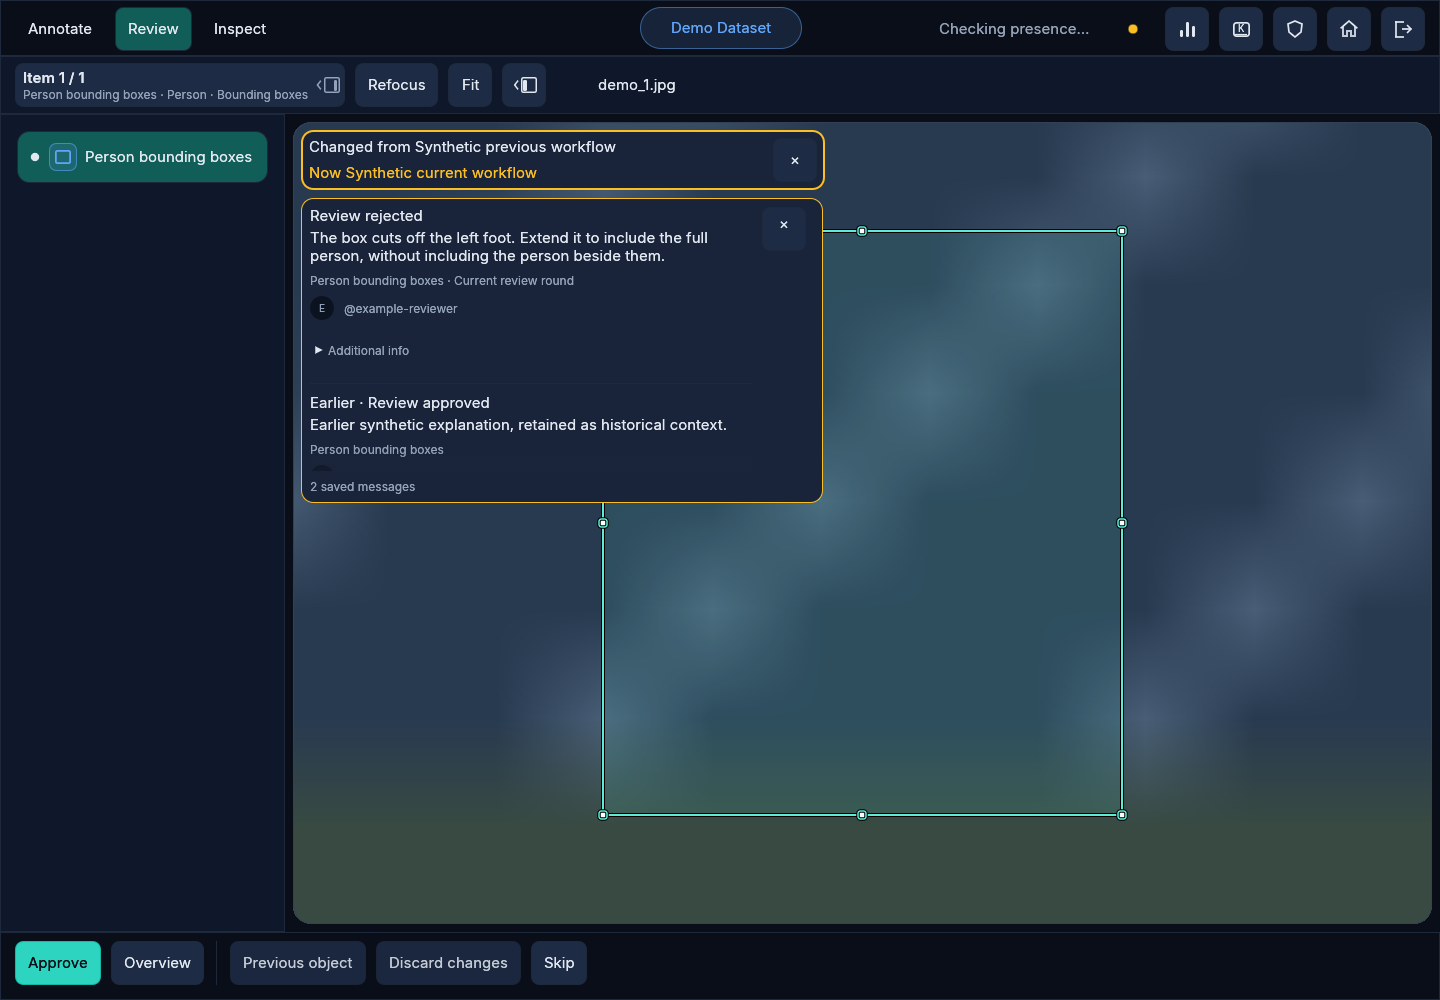
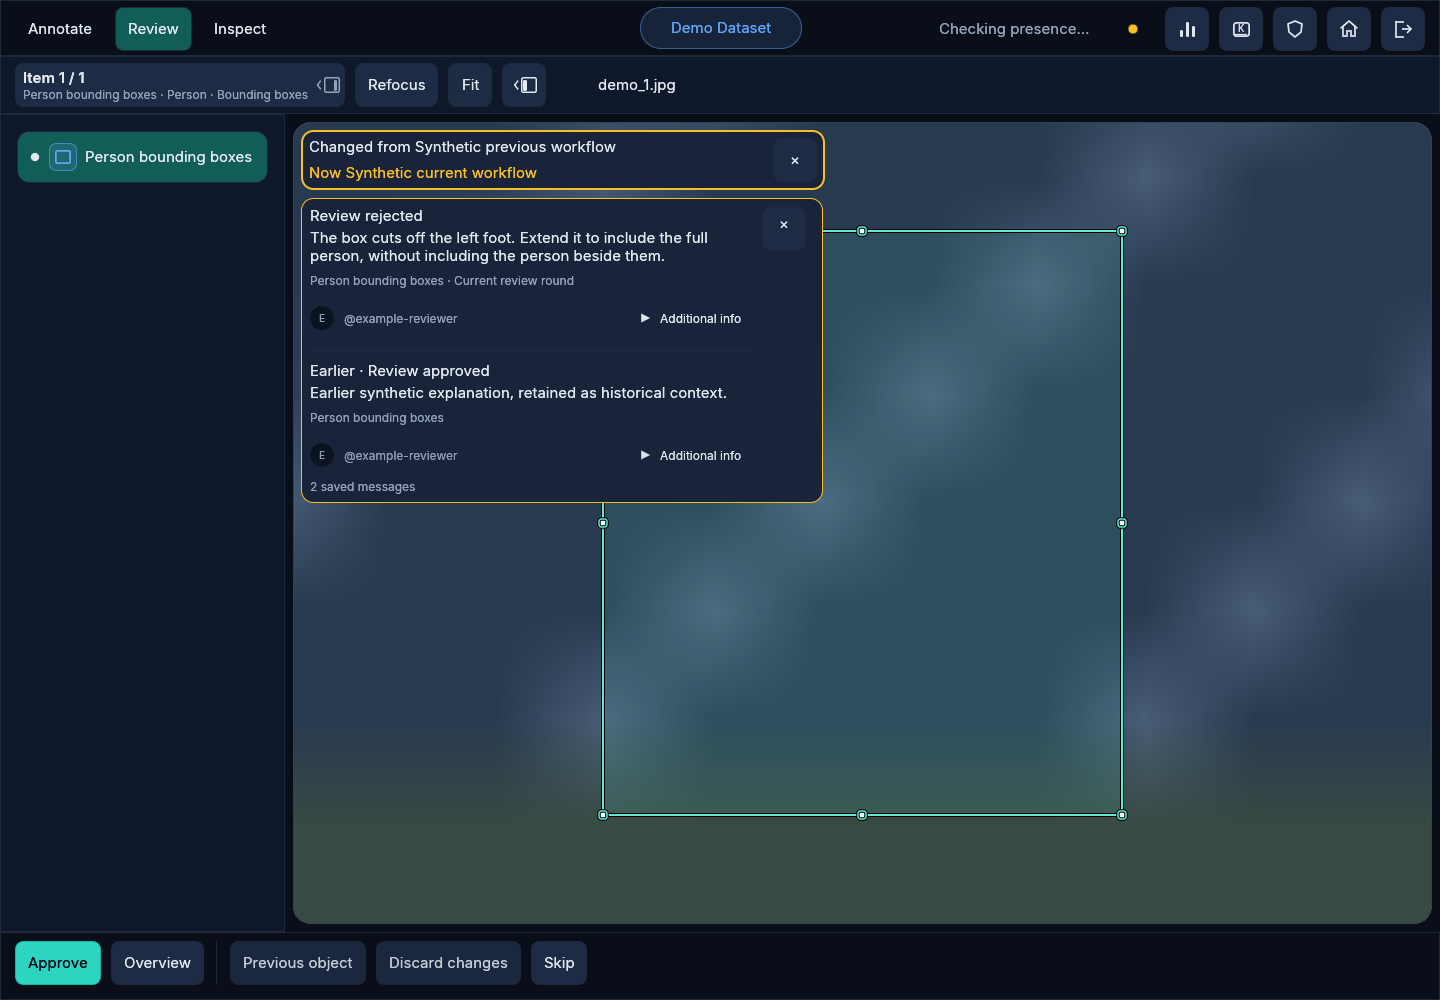
Update PR #150 screenshots for inline audit disclosure

Changed region(s): [[0.2188, 0.279, 0.5, 0.465], [0.4688, 0.31, 0.5, 0.341]]

diff --git a/README.md b/README.md
@@ -1,10 +1,12 @@
 # Visual evidence for Labello PR #150
 
-Captured from implementation commit 75a62f4e957da35105ef66c1790687027e31e479 on 2026-09-23. All screenshots use synthetic data.
+Captured from implementation commit 0166322666245f2c1244772f6a30c4dae15c444c on 2026-09-23. All data is synthetic.
 
-- desktop.png: shared native review UI at 1440 x 1000; compact title/explanation spacing, author initials fallback, collapsed audit details and historical messages.
-- additional-info.png: native review UI with audit details expanded.
-- browser-narrow.png: release WASM in Chromium 153 at 390 x 844 CSS pixels and DPR 2. Penalty spots is the active workflow, so its synthetic feedback belongs here. The turquoise avatar is a deterministic test image.
-- browser-zoom-200.png: actual Chrome 200% tab zoom, 720 x 456 CSS viewport. The bounded detail window keeps audit details and Close feedback reachable.
+The revised Additional info control shares the author row and aligns right. Expanded details use the full width below that row.
 
-Browser author metadata and avatar bytes are synthetic fixtures. Workflow requests and saved reasons use the disposable real server. The native captures use the deterministic workflow-reasons inspector preset. See https://github.com/HULKs/labello/pull/150 for the acceptance evidence and limitations.
+- desktop.png: native shared review UI at 1440 x 1000.
+- additional-info.png: expanded details in the native review UI.
+- browser-narrow.png: Chromium 153 release WASM, 390 x 844 CSS viewport, DPR 2. The screenshot is captured at CSS resolution. Penalty spots is the active workflow, so the synthetic penalty feedback belongs here.
+- browser-zoom-200.png: actual 200% Chrome tab zoom, 720 x 456 CSS viewport, expanded details below the full author row.
+
+Browser author metadata and avatar bytes are synthetic fixtures. The turquoise circle is the deterministic avatar image. Workflow requests and saved reasons use the disposable real server. Native captures use the workflow-reasons preset. See https://github.com/HULKs/labello/pull/150 for the acceptance evidence and limitations.
